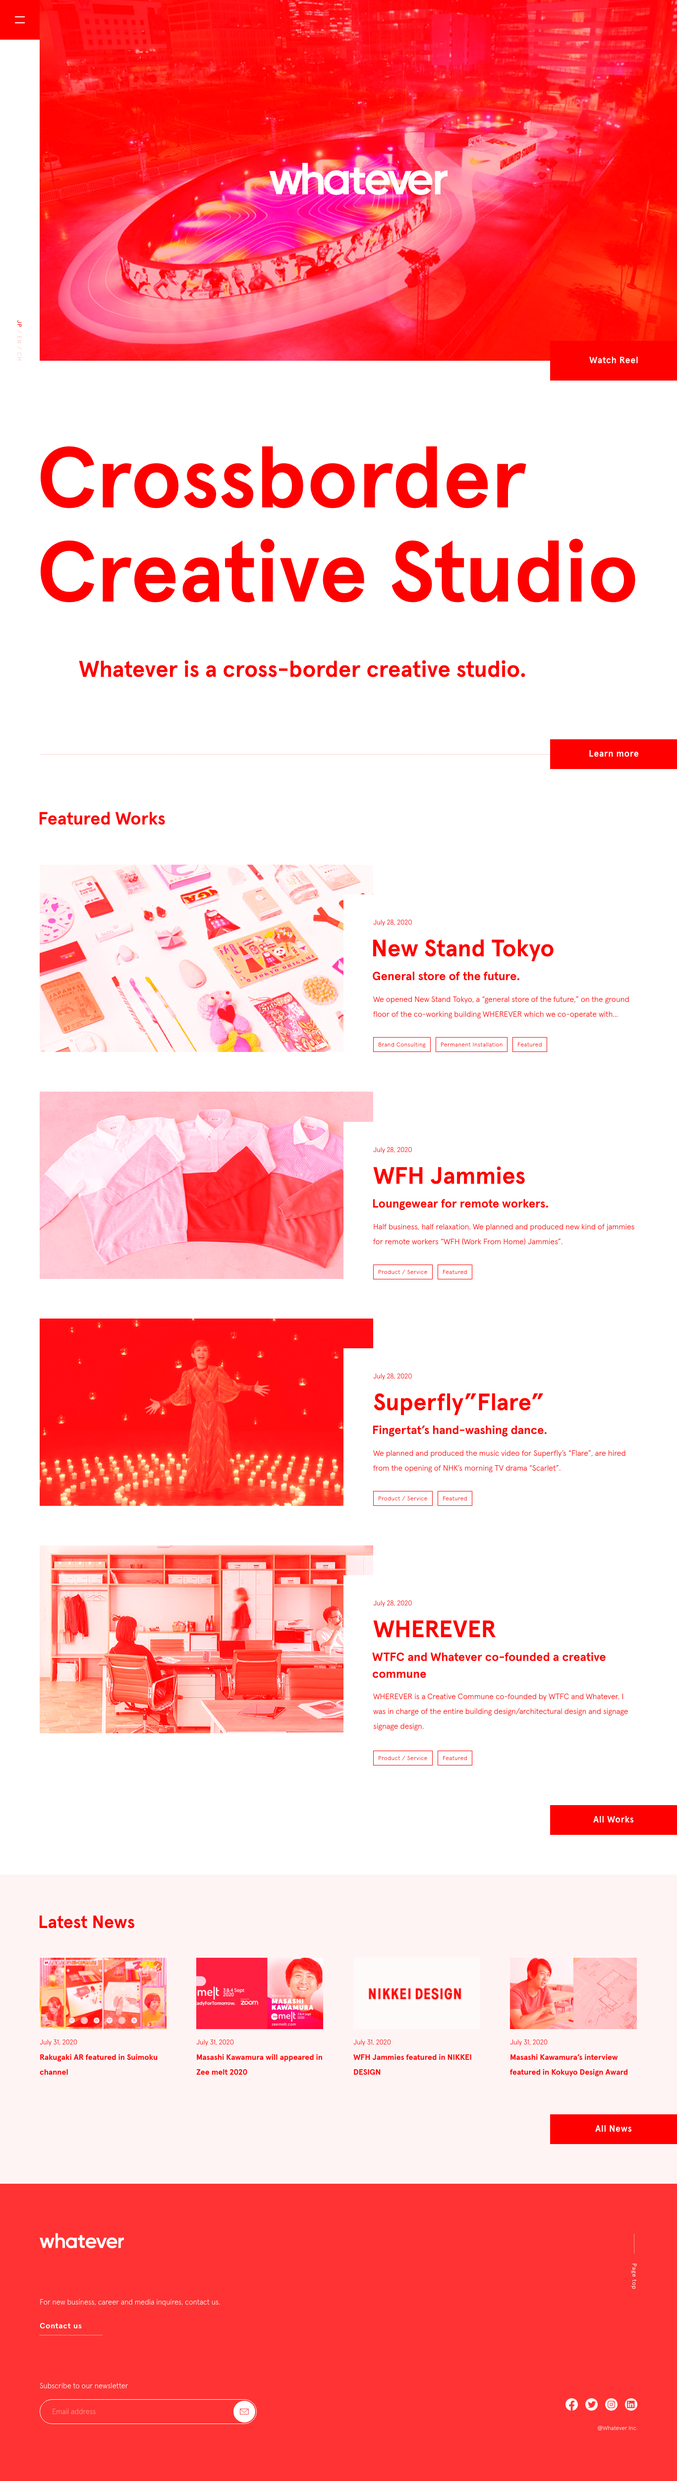
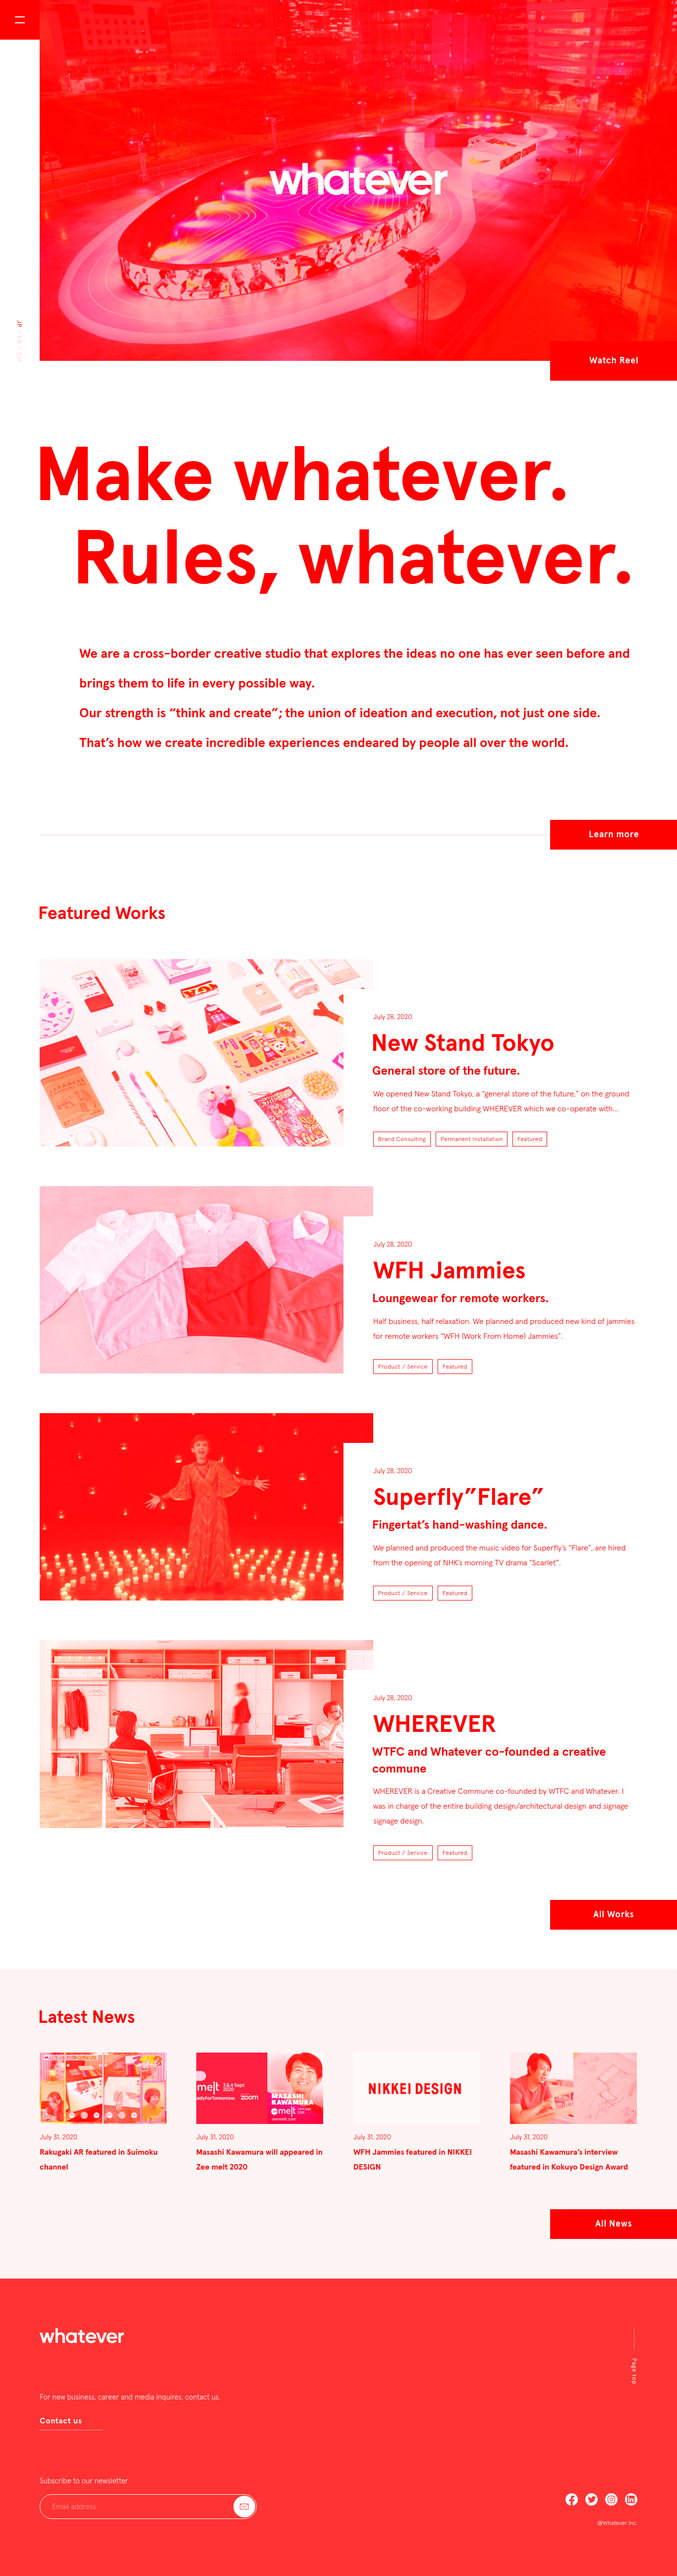
Top

diff --git a/pages/index.tsx b/pages/index.tsx
@@ -2,7 +2,7 @@ import { useEffect, useState } from 'react'
 import { GetStaticProps } from 'next'
 import Link from 'next/link'
 import { Entry, Tag, getNews, getWorksByTag } from 'lib/api'
-import { ta, langStyle } from 'lib/i18n'
+import { t, langStyle } from 'lib/i18n'
 import Layout from 'components/Layout'
 import WorkTag from 'components/WorkTag'
 import { Grad, GradImg } from 'components/Grad'
@@ -53,15 +53,14 @@ const Showreel = () => {
   )
 }
 
-const Crossborder = () => (
-  <div className={langStyle('container')}>
+const Tagline = () => (
+  <div className={langStyle('tagline')}>
     <div className="title">
-      <Grad><h1>Crossborder</h1></Grad>
-      <Grad><h1>Creative Studio</h1></Grad>
+      <Grad><h1>Make whatever.</h1></Grad>
+      <Grad><h1 className="line2">Rules, whatever.</h1></Grad>
     </div>
     <div className="desc">
-      <Grad><h2>{ta('top_whatever')![0]}</h2></Grad>
-      {ta('top_whatever')![1] ? <Grad><h2 style={{ marginLeft: 'calc((100vw - 80px) * 0.14)' }}>{ta('top_whatever')![1]}</h2></Grad> : null}
+      {t('top_whatever')?.split('\n').map(line => <Grad><h2>{line}</h2></Grad>)}
     </div>
     <div className="link">
       <Link href="/about">
@@ -69,37 +68,39 @@ const Crossborder = () => (
       </Link>
     </div>
     <style jsx>{`
-      .container
+      vwpx(px)
+        'calc((100vw - 80px) * %s)' % (px / (1366 - 80))
+      .tagline
         position relative
-        margin-top calc((100vw - 80px) * 0.125)
+        margin-top vwpx(160)
         img
           display block
       .title
         font-size 0
-        margin-left calc((100vw - 80px) * -0.005)
+        margin-left vwpx(-11)
         h1
           display inline-block
-          font-size calc((100vw - 80px) * 0.1353)
+          font-size vwpx(154)
           font-weight bold
-          line-height calc((100vw - 80px) * 0.1353)
           margin 0
-          margin-bottom calc((100vw - 80px) * 0.013)
+          margin-bottom vwpx(14)
+          &.line2
+            margin-left vwpx(77)
       .desc
         position relative
-        margin-top calc((100vw - 80px) * 0.051)
-        margin-left calc((100vw - 80px) * 0.063)
+        margin-top vwpx(69)
+        margin-left vwpx(80)
         font-size 0
         h2
           display inline-block
-          font-size calc((100vw - 80px) * 0.028)
+          font-size vwpx(26)
           font-weight bold
-          line-height calc((100vw - 80px) * 0.032)
+          line-height vwpx(60)
           margin 0
-          margin-bottom calc((100vw - 80px) * 0.019)
       .link
         display flex
         justify-content flex-end
-        margin-top calc((100vw - 80px) * 0.096)
+        margin-top vwpx(151)
         border-top 1px solid #D0D0D0
         a
           display flex
@@ -116,16 +117,18 @@ const Crossborder = () => (
           border none
       .en
         .desc
-          margin-top calc((100vw - 80px) * 0.0505)
-          margin-left calc((100vw - 80px) * 0.0615)
+          margin-top vwpx(66)
+          margin-left vwpx(80)
           h2
-            font-size calc((100vw - 80px) * 0.0358)
+            font-size vwpx(26)
+        .link
+          margin-top vwpx(154)
     `}</style>
   </div>
 )
 
 const FeaturedWorkItem = ({ work }: { work: Entry }) => (
-  <div className="container">
+  <div className="work">
     <Link href={`/work/${work.slug}`}>
       <a>
         <div className="image"><GradImg><img src={work.image} /></GradImg></div>
@@ -141,27 +144,29 @@ const FeaturedWorkItem = ({ work }: { work: Entry }) => (
       </a>
     </Link>
     <style jsx>{`
-      .container
+      vwpx(px)
+        'calc((100vw - 80px) * %s)' % (px / (1366 - 80))
+      .work
         position relative
         background-repeat no-repeat
-        padding-top calc((100vw - 80px) * 0.047)
-        padding-left calc((100vw - 80px) * 0.477)
-        margin-bottom calc((100vw - 80px) * 0.062)
+        padding-top vwpx(61)
+        padding-left vwpx(613)
+        margin-bottom vwpx(80)
       .image
         position absolute
         top 0
         left 0
         img
-          width calc((100vw - 80px) * 0.523328149)
-          height calc((100vw - 80px) * 0.294712286)
+          width vwpx(673)
+          height vwpx(379)
           object-fit cover
       .text
         position relative
         background-color white
-        padding-top calc((100vw - 80px) * 0.039)
-        padding-left calc((100vw - 80px) * 0.046)
-        padding-right calc((100vw - 80px) * 0.0613)
-        min-height calc((100vw - 80px) * (0.294712286 - 0.047 - 0.039))
+        padding-top vwpx(50)
+        padding-left vwpx(59)
+        padding-right vwpx(79)
+        min-height vwpx(268)
         font-size 0
       .date
         display inline-block
@@ -171,21 +176,21 @@ const FeaturedWorkItem = ({ work }: { work: Entry }) => (
       .title
         display inline-block
         overflow hidden
-        margin-top 1.9rem
-        font-size calc((100vw - 80px) * 0.0373)
+        margin-top vwpx(19)
+        font-size vwpx(48)
         font-weight bold
         line-height 1.2em
       .subtitle
         display inline-block
         overflow hidden
-        margin-top 1.2rem
-        font-size calc((100vw - 80px) * 0.0173)
+        margin-top vwpx(12)
+        font-size vwpx(22)
         font-weight bold
         line-height 1.4em
       .overview
         display inline-block
         overflow hidden
-        margin-top 1.5rem
+        margin-top vwpx(16)
         line-height 2em
         font-size 1.5rem
         font-weight light
@@ -207,19 +212,20 @@ const FeaturedWorks = ({ works }: { works: Entry[] }) => (
       </Link>
     </div>
     <style jsx>{`
+      vwpx(px)
+        'calc((100vw - 80px) * %s)' % (px / (1366 - 80))
       .container
-        margin-top calc((100vw - 80px) * 0.065)
+        margin-top vwpx(107)
       h1
         display inline-block
-        font-size calc((100vw - 80px) * 0.028)
+        font-size vwpx(36)
         font-weight bold
         margin 0
-        margin-left -0.3rem
-        margin-bottom 7rem
+        margin-left vwpx(-3)
+        margin-bottom vwpx(72)
       .link
         display flex
         justify-content flex-end
-        margin-top calc((100vw - 80px) * 0.06)
         a
           display flex
           justify-content center
@@ -232,6 +238,7 @@ const FeaturedWorks = ({ works }: { works: Entry[] }) => (
           height 60px
           background-color black
           border none
+          padding 0
     `}</style>
   </div>
 )
@@ -319,7 +326,7 @@ const LatestNews = ({ news }: { news: Entry[] }) => (
 const IndexPage = ({ works, news }: { works: Entry[], news: Entry[] }) => (
   <Layout showHeader={false} footer={<LatestNews news={news} />}>
     <Showreel />
-    <Crossborder />
+    <Tagline />
     <FeaturedWorks works={works} />
   </Layout>
 )

diff --git a/components/Layout.tsx b/components/Layout.tsx
@@ -6,7 +6,7 @@ import Sidebar from 'components/Sidebar'
 import Header from 'components/Header'
 import Footer from 'components/Footer'
 
-const useTemplate = 0
+const useTemplate = 1
 
 type Props = {
   showHeader?: boolean
@@ -20,7 +20,7 @@ type Props = {
 const Layout = ({ children, footer, title = '', side = '', backto = '', showHeader = true }: Props) => {
   const templateStyle: { [prop: string]: string } = {}
   if (useTemplate) {
-    templateStyle.backgroundImage = `url(/_/Team_detail_${useRouter().locale!}.png)`
+    templateStyle.backgroundImage = `url(/_/Top_1366_${useRouter().locale!}.png)`
   }
   return (
     <div>
